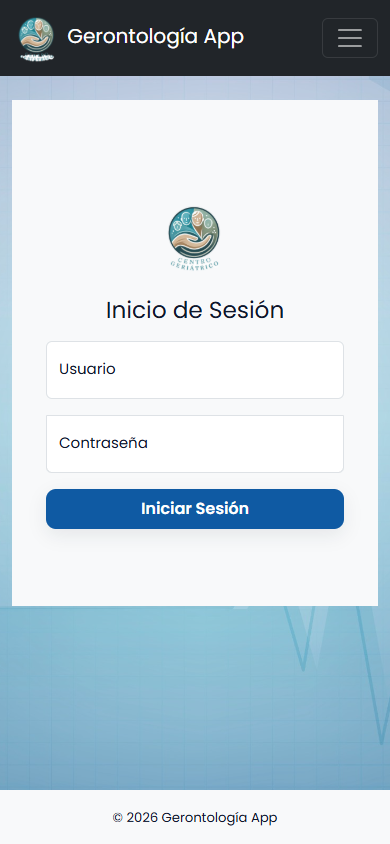
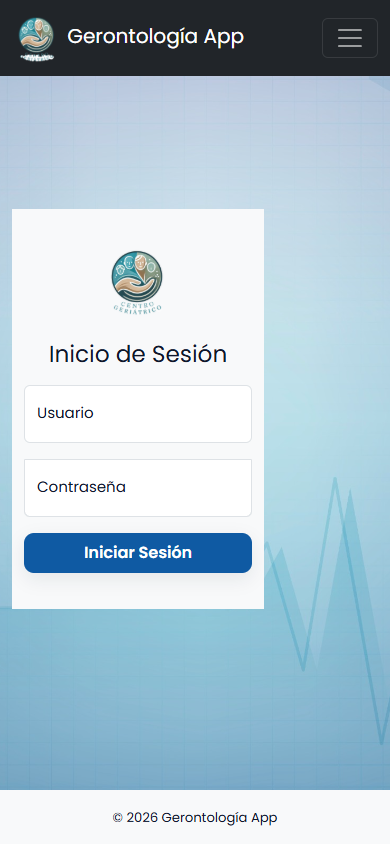
fix(login): center auth panel between top navbar and footer

diff --git a/myapp/templates/login.html b/myapp/templates/login.html
@@ -11,11 +11,11 @@
     <div class="text-white">Inicio de Sesión</div>
 {% endblock %}
 
-{% block body_class %}no-module-topbar{% endblock %}
+{% block body_class %}no-module-topbar login-page{% endblock %}
 
 {% block content %}
-    <div class="d-flex align-items-center py-4 bg-body-tertiary" style="min-height:60vh;">
-        <main class="form-signin w-100 m-auto text-center" style="max-width: 330px; padding-top: 40px;">
+    <div class="login-content-wrap d-flex align-items-center py-4 bg-body-tertiary">
+        <main class="form-signin w-100 m-auto text-center">
             <form action="{% url 'login' %}" method="POST">
                 {% csrf_token %}
                 <img class="mb-4" src="{% static 'img/Logo.png' %}" alt="Logo" width="72" height="57">

diff --git a/myapp/static/css/login.css b/myapp/static/css/login.css
@@ -8,6 +8,16 @@ body {
   padding: 1rem;
 }
 
+.login-page .app-main {
+  display: flex;
+  align-items: center;
+}
+
+.login-content-wrap {
+  width: 100%;
+  min-height: 100%;
+}
+
 .form-signin .form-floating:focus-within {
   z-index: 2;
 }
@@ -18,6 +28,13 @@ body {
     background-repeat: no-repeat;
     background-size: cover;
     background-attachment: fixed;
+}
+
+@media (max-width: 767.98px) {
+  .form-signin {
+    max-width: 360px;
+    padding: 0.75rem;
+  }
 }
 
 
